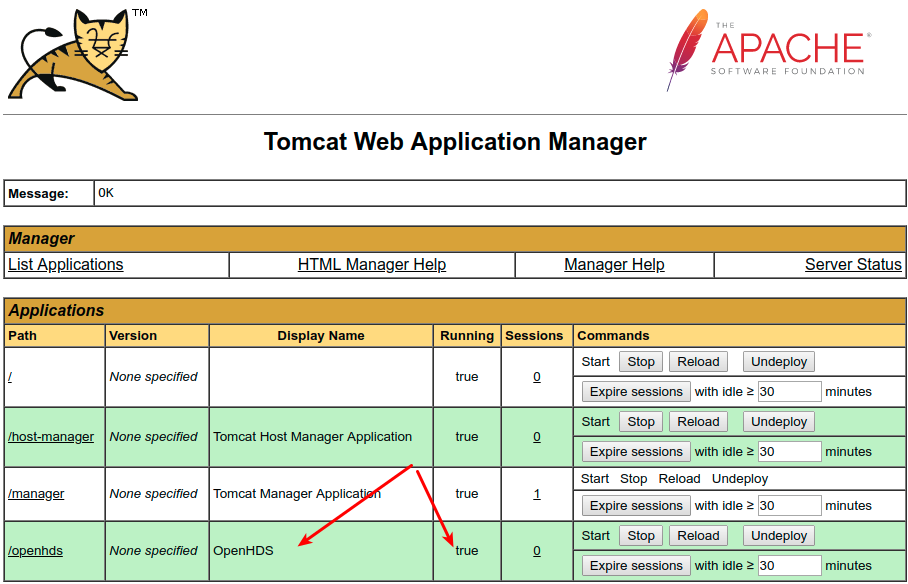
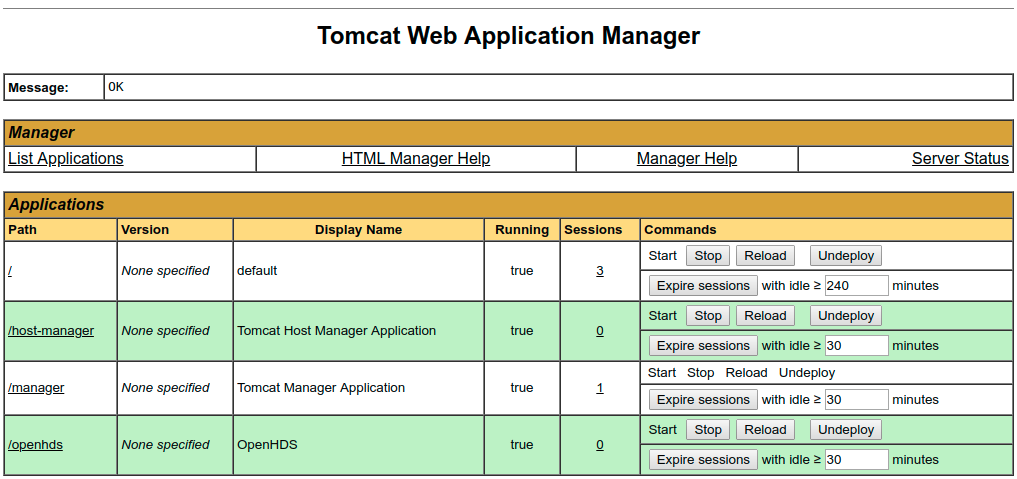
guide update

diff --git a/guide/guide.md b/guide/guide.md
@@ -2,28 +2,67 @@
 
 The below guide is a walk-through of setting up the Bohemia data infrastructure. It assumes you are running a cloud server on AWS (which will not be the case for local sites). For local servers, much of the ssh, tunneling, etc. sections can simply be ignored/altered.
 
+## Buy a domain
+
+- Go to domains.google.com and buy a domain.
+- For the purposes of this guide, the domain being used is `www.papu.us`
+
 ## Spin up an EC2 instance on AWS
 
 _The below should only be followed for the case of a remote server on AWS. In production, sites will use local servers, physically housed at the study sites. In the latter case, skip to the [Setting up OpenHDS section](https://github.com/databrew/bohemia/blob/master/guide/guide.md#setting-up-openhds)_
 
-
+#### Create a VPC configuration
 - Log into the AWS console: aws.amazon.com
-- In the upper right hand corner select "Sign-into Console"
+- Go to the VPC dashboard: https://console.aws.amazon.com/vpc/home#dashboard
+- Click "Launch VPC Wizard"
+- Follow the wizard for the VPC with a Single Public Subnet configuration.
+- Enter aggregate-vpc (or your desired name) as the name and description.
+- Select the VPC you previously created.
+- Click on Create.
+- Click on the newly created security group from the list, click on the Inbound rules tab, the Edit rules.
+- Set the below rules:
+  - SSH: Anywhere
+  - HTTP: Anywhere
+  - HTTPS: Anywhere
+  - (For Mirth to work, you also need to add Anywhere access on HTTP and HTTPS for ports 8082 and 8443)
+- Save rules
+
+#### Create an IAM role
+- Go to the IAM - Roles tab (https://console.aws.amazon.com/iam/home#/roles)
+- Click "Create role"
+- Select "AWS service" and click "EC2"
+- Click "Next:Permissions"
+- Search for "AmazonEC2ReadOnlyAccess" and select it
+- Click "Next:Tags". Do nothing.
+- Click "Next: Review"
+- Enter "aggregate-role" as the name
+- Click "Create role"
+
+
+#### Create an EC2 machine
+- Go to the EC2 dashboard (https://console.aws.amazon.com/ec2/v2/home#Home)
 - Click the “Launch a virtual machine” option under “Build a solution”
-- Select "Ubuntu Server 16.04 LTS (HVM), SSD Volume Type"
+- Select "Ubuntu Server 18.04 LTS (HVM), SSD Volume Type"
 -To the far right select 64-bit (x86)  
 - Click “select”  
-- Choose the instance type: General purpose, t2.large, 2 vCPUs, 8 gb memory, etc.
-- Click “Review and launch”
-- Click “Edit security groups”
-- Ensure that there is an SSH type rule with source set to `0.0.0.0/0` to allow any address to SSH in. Set "Source" to "Anywhere"
-- Create a second rule with "Type" set to "All traffic", the "Port Range" set to 0-65535. Set "Source" to "Anywhere"
-- Create a third rule with "Type" set to "HTTP" and "Port Range" set to 80. Set "Source" to "Anywhere"
-- Create a fourth rule with "Type" set to "HTTPS", Port Range set to 443. Set "Source" to "Anywhere"
-- Create a fifth rule with Type "Custom TCP Rule", Port Range 8080. Set "Source" to "Anywhere"
-- Your security configuration will look like this
-![](img/security.png)
-- Click “launch” in the bottom right
+- Choose the instance type: General purpose, t2.small (or larger)
+- Click on Next: Configure Instance Details.
+- Select the VPC you previously created in the Network dropdown ("aggregate-vpc")
+- Select "Enable" in the Auto-assign Public IP dropdown.
+- Select the IAM role you previously created in the IAM role dropdown.
+- Toggle the Advanced Details section and copy and paste the contents of [this](https://raw.githubusercontent.com/opendatakit/aggregate/master/cloud-config/aws/cloud-config.yml) script
+- Click on Next: Add Storage and edit the storage settings. Set to a minimum of 30gb.
+- Click on Next: Add Tags.
+- Add `aggregate.hostname` key with the domain name as the value (e.g., `papu.us`). Important. You need to have purchased the hostname prior to doing this (ie, don't use your IP address, use an actual DNS)
+- Click on Next: Configure Security Group.
+- Select an existing security group and select the security group you previously created.
+- Click on Review and Launch and after review, click on Launch.
+- Select to use an existing keypair OR configure a key pair as per instructions (see more in next section if you don't yet have a keypair)
+- Click on Launch instances.
+
+
+#### Configuring a key pair  
+
 - A modal will show up saying “Select an existing key pair or create a new key pair”
 - Select “Create a new key pair”
 - Name it “openhdskey”
@@ -44,7 +83,7 @@ _The below should only be followed for the case of a remote server on AWS. In pr
   - Select "Amazon pool"
   - Click "Allocate"
   - In the allocation menu, click "Associate address"
-  - Select the instance you just created
+  - Select the instance you just created. Also select the corresponding "Private IP"
   - Click "Associate"
 - Note, this guide is written with the below elastic id. You'll need to replace this with your own when necessary.
 
@@ -73,6 +112,28 @@ ssh -i "/home/joebrew/.ssh/openhdskey.pem" ubuntu@ec2-3-130-255-155.us-east-2.co
 
 - Congratulations! You are now able to run linux commands on your new ubuntu server
 
+### Setting up the domain
+
+- In domains.google.com, click on the purchased domain.
+- Click on "DNS" on the left
+- Go to "Custom resource records"
+- You're going to create two records:
+  1. Name: @; Type: A; TTL 1h; Data: 3.130.255.155
+  2. Name: www; Type: CNAME; TTL: 1h; Data: ec2-3-130-255-155.us-east-2.compute.amazonaws.com.
+
+
+### Setting up https
+
+- Run the following to get an https certificate set up:
+```
+sudo certbot run --nginx --non-interactive --agree-tos -m joebrew@gmail.com --redirect -d papu.us
+```
+- Note, replace "joebrew@gmail.com" and "papu.us" with your email and domain, respectively
+  - (As an alternative to the above, you can get a CDN on cloudflare, and in the "DNS" section of domains.google.com, set the "Name servers" to the 2 provided by Cloudfare (may take 1 hour or so to work))
+- As per the instructions in the terminal, run a test on the new site at: https://www.ssllabs.com/ssltest/analyze.html?d=papu.us
+
+
+
 ### Managing users (ie, creating ssh keypairs for other users)
 
 - Having ssh’ed into the server, run the following: `sudo adduser <username_of_new_user>`
@@ -90,15 +151,12 @@ Grant sudo access to the new users: `sudo usermod -a -G sudo benmbrew`
 
 ### Setting up Linux  
 
-- This guide was written for, and assumes, Linux Ubuntu 16.04. Details below:
-```
-Linux ip-172-31-5-87 4.4.0-1087-aws #98-Ubuntu SMP Wed Jun 26 05:50:53 UTC 2019 x86_64 x86_64 x86_64 GNU/Linux
-```
-
 - SSH into the server:
 ```
 ssh -i "/home/joebrew/.ssh/openhdskey.pem" ubuntu@ec2-3-130-255-155.us-east-2.compute.amazonaws.com
 ```
+- You now have an up-and-running instance with some software already installed (stuff installed via the cloud config script)
+  - For example, postgres, tomcat, awscli, openjdk-8-jre-headless, etc. are already installed, etc.
 - Run the following after ssh'ing into the server: `sudo apt-get update`
 - Update the hostname of the machine to be `data-management.local`. You can check the hostname by running `hostnamectl` and examining the `Static hostname` parameter. To update the hostname, run the following:
 ```
@@ -109,21 +167,23 @@ sudo hostnamectl set-hostname data-management.local
 ```
 preserve_hostname: true
 ```
-- Ensure that the change worked. Run `sudo reboot`, wait a few seconds, ssh back into the instance and run `hostname`. It should show `data-management.local`
 
 - Then, open /etc/hosts by running `sudo nano /etc/hosts` and add the following line:
 ```
 127.0.0.1 data-management.local
 ```   
 
-### Installing Java 8
+### Setting up java
 
-- Run the following to install Java 8:
+- Java is already installed, but you need to set the `JAVA_HOME` environment variable. To do so:
+- `sudo nano /etc/environment`
+- Add line like `JAVA_HOME="/usr/lib/jvm/java-8-openjdk-amd64"`
+- Run `source /etc/environment`
+- In order for mirth to function correctly, you need to also deal with some security issues. Do the following:
 ```
-sudo apt-get update
-sudo apt-get install openjdk-8-jre-headless
+sudo nano /etc/java-8-openjdk/accessibility.properties
 ```
-
+- Comment out the line containing `assistive_technologies=org.GNOME.Accessibility.AtkWrapper`
 
 ### Installing MySQL Server
 
@@ -146,36 +206,8 @@ GRANT ALL ON *.* TO 'data'@'%';
 flush privileges;
 ```
 - Exit MySQL CLI: ctrl + d
-- Not running the below for now:
-  - Grant outside access to MySQL (optional): Comment out the line starting with `Bind-Address` by adding a `#` prior to it in `/etc/mysql/my.cnf`
-  - More info on this issue: https://stackoverflow.com/questions/26914543/remote-connections-mysql-ubuntu-bind-address-failed
 - Restart the mysql service: `sudo service mysql restart`
 
-### Installing Tomcat
-
-- Run the following `sudo apt install tomcat8`
-- Run a package update: `sudo apt-get update`
-- Ensure tomcat is up and running: `sudo service tomcat8 start`
-- Set `JAVA_HOME` variable in `/etc/environment`: `sudo nano /etc/environment` and add line like `JAVA_HOME="/usr/lib/jvm/java-8-openjdk-amd64"`
-- Run `source /etc/environment`
-- NOT DOING: If issues with `JAVA_HOME`, uncomment the `JAVA_HOME` line in `/etc/default/tomcat8/` and set it to the java installation folder. For example:
-```
-JAVA_HOME="/usr/lib/jvm/java-8-openjdk-amd64"
-```
-- Install tomcat8 admin: `sudo apt-get install tomcat8-admin`
-- Edit `etc/tomcat8/tomcat-users.xml` by running `sudo nano /etc/tomcat8/tomcat-users.xml`
-- In the `tomcat-users` section, create a new role by adding the following lines:
-```
-<role rolename="manager-gui" />
-<user username="data" password="data" roles="manager-gui" />
-```
-- Restart the tomcat service: `sudo service tomcat8 restart`
-- Not doing: increase memory allocation to Tomcat in CATALINA_OPTS
-
-- Ensure that everything is working up by going to the following address in your local web browser: ec2-3-130-255-155.us-east-2.compute.amazonaws.com:8080/manager/ (Replace the IP address with the address of your Ec2 instance)
-- You can now log-in as Username: `data` and Password: `data`. Once logged-in, the below will appear in the web browswer.
-
-![](img/tomcat.png)
 
 ### Installing the MySQL-J Connector
 
@@ -208,7 +240,16 @@ wget https://github.com/SwissTPH/openhds-server/releases/download/openhds-1.6/op
 
 ### Deploying OpenHDS in Tomcat
 
-- On your local machine, go to ec2-3-130-255-155.us-east-2.compute.amazonaws.com:8080/manager/html (replace IP address if applicable)
+- Tomcat is already installed on the machine. But we still need to configure some stuff.
+- Run `sudo nano /etc/tomcat8/tomcat-users.xml`
+- In the `tomcat-users` section, create a new role by adding the following lines:
+```
+<role rolename="manager-gui" />
+<user username="data" password="data" roles="manager-gui" />
+```
+- Restart the tomcat service: `sudo service tomcat8 restart`
+- On your local machine, go to https://papu.us/manager  
+- Sign in with "data" and "data"
 - Scroll down to the "Select WAR file to upload" section
 - Select the `openhds.war` file you downloaded a few minutes ago in the "Choose File" menu.
 - Click "Deploy" button
@@ -279,11 +320,9 @@ INSERT INTO `whitelist` (uuid, address) VALUES ('LOCALHOST2', 'localhost');
 INSERT INTO `whitelist` (uuid, address) VALUES ('LOCALHOST3', '3.130.255.155');
 ```
 
-
-
 ### Confirm that everything is working so far
 
-- To confirm that everything is working at this point, on your local machine, visit http://ec2-3-130-255-155.us-east-2.compute.amazonaws.com:8080/openhds in the browser. A green log-in screen should appear.
+- To confirm that everything is working at this point, on your local machine, visit https://papu.us/openhds in the browser. A green log-in screen should appear.
 - If you want, change the language
 - Log in with credentials "admin" and "test"
 
@@ -308,16 +347,14 @@ scp -i "/home/joebrew/.ssh/openhdskey.pem" mirthconnect-3.8.0.b2464-unix.sh ubun
 - When it asks "Which components should be installed?", press `Enter`
 - When it asks "Create symlinks?", press `Enter` (ie, "Yes")
 - When it asks "Select the folder where you would like Mirth Connect to create symlinks", type `Enter` to confirm the local `/usr/local/bin`
-- When it asks which port (Web Start Port), type 8082 (since 8080 is already used by Tomcat)
+- When it asks which port (Web Start Port), type 8083 (since 8080 is already used by Tomcat)
 - When it asks for the Administrator Port, keep as default 8443 (press `Enter`)
 - For all password options, keep default (ie, press `Enter`)
 - For "Application data", type: `/usr/local/mirthconnect/apps`
 - For Logs, type: `/usr/local/mirthconnect/logs`
 - Install and run
+- (Took a few minutes to run for some reason)
 
-- To confirm that everything is working, serve the Mirth Connect Administrator to your local browser by going to: https://ec2-3-130-255-155.us-east-2.compute.amazonaws.com:8443/ (note the https)
-- Sign in with the credentials `admin` (username) and `admin` (password)
-![](img/mirth2.png)
 
 ### Configure mirth to work with MySQL
 - By default, Mirth will use a Derby database; we must change this to MySQL. Do so as follows.
@@ -332,7 +369,7 @@ GRANT ALL ON mirthdb.* TO data@'%' IDENTIFIED BY 'data' WITH GRANT OPTION;
 - Replace the `database.url` line with `database.url = jdbc:mysql://localhost:3306/mirthdb`
 - Set values for `database.username` and `database.password` to `data` and `data`
 - Restart the mirth service: `sudo service mcservice restart`
-- Go to https://ec2-3-130-255-155.us-east-2.compute.amazonaws.com:8443 (note the https)
+- Go to https://papu.us:8443 (note the https). Log in with admin/admin credentials.
 - After log-out, click "Download the Administrator Launcher" in the bottom left
 - A file will be downloaded to your local machine
 - Make that file executable: `chmod +x mirth-administrator-launcher-1.1.0-unix.sh`
@@ -340,7 +377,7 @@ GRANT ALL ON mirthdb.* TO data@'%' IDENTIFIED BY 'data' WITH GRANT OPTION;
 - Agree to the items in the applet that comes up
 - Select "Run Mirth Connect Administrator Launcher" at the end of the license process
 - In the Mirth Connect Administrator Launcher, set the address of the machine
-- Set the Address to https://ec2-3-130-255-155.us-east-2.compute.amazonaws.com:8443  
+- Set the Address to https://papu.us:8443/ 
 ![](img/mirth3.png)
 - Click launch
 - When prompted by the applet, log in with the above url, and admin/admin as the credentials
@@ -615,7 +652,7 @@ GRANT SELECT, UPDATE ON BASELINE_VIEW TO 'datamanager'@'%';
 
 - Log into OpenHDS Mobile via the Supervisor log-in with credentials: admin/test
 - Click "Sync Database", "Sync Field Workers", "Sync Extra Forms"
-- In "Show Stats", everything should be green (if with real data)
+- In "Show Stats", everything should be green before going out to collect data(if with real data)
 
 ## Synchronizing ODKCollect
 
